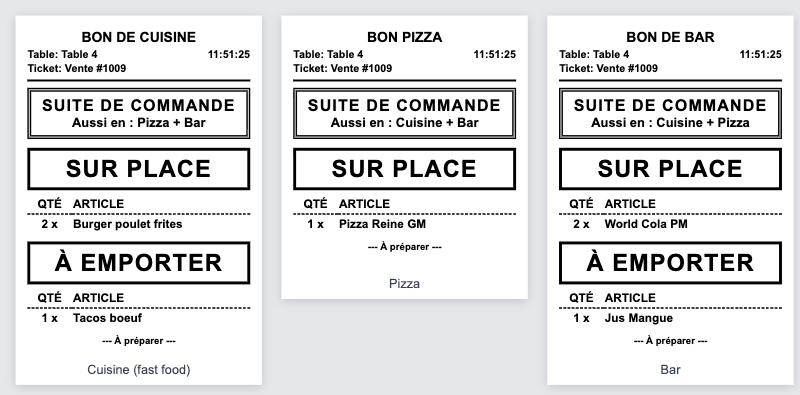
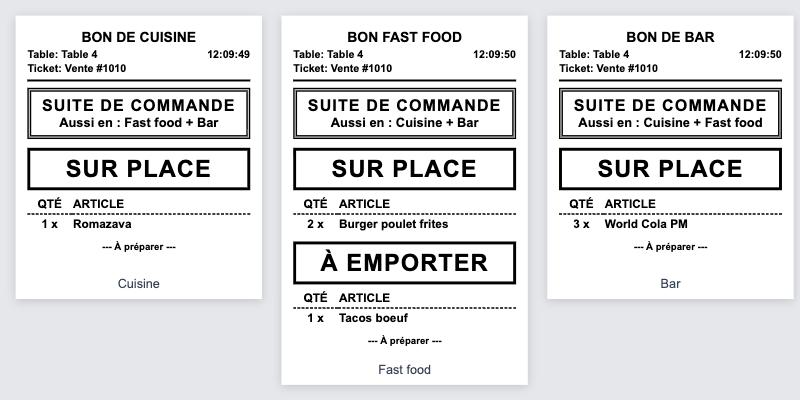
feat(pos): poste « Fast food » séparé de la cuisine
Les catégories Fast food (avec / sans porc) ont leur propre bon « BON
FAST FOOD » (imprimante nommée « fastfood »), cité par les autres bons
dans « suite de commande ». La migration les déplace de la cuisine vers
ce poste ; un autre réglage local est conservé.

Sans imprimante « fastfood » sur la machine, le bon part sur
l'imprimante cuisine, puis sur celle de la caisse : rien ne se perd. Un
bon pizza sans imprimante « pizza » se replie aussi sur la caisse (il
échouait avant). L'API des catégories accepte fastfood et pizza.

diff --git a/pos/frontend/src/services/printing/__tests__/receiptTemplate.spec.js b/pos/frontend/src/services/printing/__tests__/receiptTemplate.spec.js
@@ -156,8 +156,13 @@ describe('suite de commande (ticket réparti sur plusieurs postes)', () => {
     expect(otherStationsText(undefined, 'bar')).toBe('')
   })
 
+  it('le fast food est un poste à part entière', () => {
+    expect(otherStationsText(['fastfood', 'kitchen', 'bar'], 'bar')).toBe('Cuisine + Fast food')
+    expect(otherStationsText(['fastfood', 'kitchen', 'bar'], 'fastfood')).toBe('Cuisine + Bar')
+  })
+
   it('les articles sans imprimante sont cités comme « Caisse », un poste inconnu par son nom', () => {
-    expect(otherStationsText(['kitchen', 'receipt', 'fastfood'], 'kitchen')).toBe('Caisse + fastfood')
+    expect(otherStationsText(['kitchen', 'receipt', 'friteuse'], 'kitchen')).toBe('Caisse + friteuse')
     expect(stationLabel('cook')).toBe('Cuisine')
   })
 })

diff --git a/pos/frontend/src/services/printing/receiptTemplate.js b/pos/frontend/src/services/printing/receiptTemplate.js
@@ -90,8 +90,8 @@ export function formatServiceLabel({ serviceType, tableNumber } = {}) {
 }
 
 // ── Postes de préparation (categories.printer) ──
-export const STATION_LABELS = Object.freeze({ kitchen: 'Cuisine', cook: 'Cuisine', pizza: 'Pizza', bar: 'Bar', receipt: 'Caisse' })
-const STATION_ORDER = ['kitchen', 'cook', 'pizza', 'bar', 'receipt']
+export const STATION_LABELS = Object.freeze({ kitchen: 'Cuisine', cook: 'Cuisine', fastfood: 'Fast food', pizza: 'Pizza', bar: 'Bar', receipt: 'Caisse' })
+const STATION_ORDER = ['kitchen', 'cook', 'fastfood', 'pizza', 'bar', 'receipt']
 
 /** Nom lisible d'un poste : 'kitchen' -> « Cuisine » (inconnu : nom brut) */
 export const stationLabel = (printer) => STATION_LABELS[printer] || String(printer || '')

diff --git a/pos/frontend/src/composables/usePrinterTypes.js b/pos/frontend/src/composables/usePrinterTypes.js
@@ -3,7 +3,7 @@ import axios from 'axios'
 import { API_BASE_URL } from '@/utils/api'
 
 const getPrinterTypeLabel = (type) => {
-  const labels = { cash: 'Caisse', kitchen: 'Cuisine', bar: 'Bar', invoice: 'Facture' }
+  const labels = { cash: 'Caisse', kitchen: 'Cuisine', fastfood: 'Fast food', pizza: 'Pizza', bar: 'Bar', invoice: 'Facture' }
   return labels[type] || type
 }
 

diff --git a/pos/backend/tests/Feature/FastfoodPrinterTest.php b/pos/backend/tests/Feature/FastfoodPrinterTest.php
@@ -1,0 +1,66 @@
+<?php
+
+namespace Tests\Feature;
+
+use App\Models\Category;
+use App\Models\PointOfSale;
+use App\Models\User;
+use Illuminate\Foundation\Testing\RefreshDatabase;
+use PHPUnit\Framework\Attributes\Test;
+use Spatie\Permission\Models\Role;
+use Tests\TestCase;
+
+/**
+ * Poste « fastfood » séparé de la cuisine : les catégories Fast food y ont
+ * leurs propres bons de préparation.
+ */
+class FastfoodPrinterTest extends TestCase
+{
+    use RefreshDatabase;
+
+    private function migration()
+    {
+        return require database_path('migrations/2026_11_27_000002_add_fastfood_printer_to_categories.php');
+    }
+
+    #[Test]
+    public function la_base_accepte_le_poste_fastfood()
+    {
+        $category = Category::factory()->create(['printer' => 'fastfood']);
+
+        $this->assertSame('fastfood', $category->fresh()->printer);
+    }
+
+    #[Test]
+    public function la_migration_passe_les_categories_fast_food_de_la_cuisine_au_poste_fastfood()
+    {
+        $this->migration()->down();
+        $avecPorc = Category::factory()->create(['name' => 'Fast food avec porc', 'printer' => 'kitchen']);
+        $sansPorc = Category::factory()->create(['name' => 'Fast food sans porc', 'printer' => 'kitchen']);
+        $pates = Category::factory()->create(['name' => 'Pâtes sans porc', 'printer' => 'kitchen']);
+        $reglageLocal = Category::factory()->create(['name' => 'Fast food maison', 'printer' => 'bar']);
+
+        $this->migration()->up();
+
+        $this->assertSame('fastfood', $avecPorc->fresh()->printer);
+        $this->assertSame('fastfood', $sansPorc->fresh()->printer);
+        $this->assertSame('kitchen', $pates->fresh()->printer);
+        $this->assertSame('bar', $reglageLocal->fresh()->printer, 'un réglage local autre que cuisine est conservé');
+    }
+
+    #[Test]
+    public function l_api_accepte_fastfood_et_refuse_un_poste_inconnu()
+    {
+        Role::findOrCreate('admin', 'api');
+        $admin = User::factory()->create(['point_of_sale_id' => PointOfSale::factory()->create()->id]);
+        $admin->assignRole('admin');
+        $api = $this->withHeader('Authorization', 'Bearer ' . $admin->createToken('test')->plainTextToken);
+
+        $api->postJson('/api/categories', ['name' => 'Fast food test', 'printer' => 'fastfood'])
+            ->assertStatus(201)
+            ->assertJsonPath('data.printer', 'fastfood');
+
+        $api->postJson('/api/categories', ['name' => 'Autre', 'printer' => 'friteuse'])
+            ->assertStatus(422);
+    }
+}

diff --git a/pos/backend/app/Http/Controllers/CategoryController.php b/pos/backend/app/Http/Controllers/CategoryController.php
@@ -2,6 +2,8 @@
 
 namespace App\Http\Controllers;
 
+use Illuminate\Validation\Rule;
+
 use App\Models\Category;
 use App\Models\Product;
 use Illuminate\Http\Request;
@@ -370,7 +372,7 @@ class CategoryController extends Controller
         try {
             $validated = $request->validate([
                 'name' => 'required|string|max:255|unique:categories,name',
-                'printer' => 'nullable|in:kitchen,bar,receipt,cook',
+                'printer' => ['nullable', Rule::in(Category::PRINTERS)],
             ]);
 
             $category = Category::create($validated);
@@ -417,7 +419,7 @@ class CategoryController extends Controller
         try {
             $validated = $request->validate([
                 'name' => 'sometimes|string|max:255|unique:categories,name,' . $category->id,
-                'printer' => 'sometimes|nullable|in:kitchen,bar,receipt,cook',
+                'printer' => ['sometimes', 'nullable', Rule::in(Category::PRINTERS)],
             ]);
 
             $category->update($validated);
@@ -484,7 +486,7 @@ class CategoryController extends Controller
     {
         try {
             $validated = $request->validate([
-                'printer' => 'required|in:kitchen,bar,receipt,cook',
+                'printer' => ['required', Rule::in(Category::PRINTERS)],
             ]);
 
             $category->update(['printer' => $validated['printer']]);
@@ -511,10 +513,10 @@ class CategoryController extends Controller
      */
     public function getCategoriesByPrinter($printerType)
     {
-        if (!in_array($printerType, ['kitchen', 'bar', 'receipt', 'cook'])) {
+        if (!in_array($printerType, Category::PRINTERS, true)) {
             return response()->json([
                 'message' => 'Invalid printer type',
-                'allowed' => ['kitchen', 'bar', 'receipt', 'cook']
+                'allowed' => Category::PRINTERS
             ], 422);
         }
 

diff --git a/pos/backend/database/migrations/2026_11_27_000002_add_fastfood_printer_to_categories.php b/pos/backend/database/migrations/2026_11_27_000002_add_fastfood_printer_to_categories.php
@@ -1,0 +1,40 @@
+<?php
+
+use Illuminate\Database\Migrations\Migration;
+use Illuminate\Support\Facades\DB;
+
+return new class extends Migration
+{
+    // Nouveau poste de préparation « fastfood », séparé de la cuisine.
+    // Les catégories « Fast food … » qui partaient en cuisine y passent.
+    // Sans imprimante nommée « fastfood » sur la machine, Electron imprime ces
+    // bons sur l'imprimante cuisine (puis caisse) : rien ne se perd.
+    public function up(): void
+    {
+        $this->setAllowedPrinters(['kitchen', 'fastfood', 'pizza', 'bar', 'receipt']);
+
+        DB::table('categories')
+            ->where('printer', 'kitchen')
+            ->whereRaw('LOWER(name) LIKE ?', ['fast food%'])
+            ->update(['printer' => 'fastfood']);
+    }
+
+    public function down(): void
+    {
+        DB::table('categories')->where('printer', 'fastfood')->update(['printer' => 'kitchen']);
+
+        $this->setAllowedPrinters(['kitchen', 'bar', 'receipt', 'pizza']);
+    }
+
+    // categories.printer est un enum Laravel : sous PostgreSQL, une contrainte CHECK
+    private function setAllowedPrinters(array $printers): void
+    {
+        if (DB::getDriverName() !== 'pgsql') {
+            return;
+        }
+
+        $list = implode(', ', array_map(fn ($p) => "'{$p}'::character varying", $printers));
+        DB::statement('ALTER TABLE categories DROP CONSTRAINT IF EXISTS categories_printer_check');
+        DB::statement("ALTER TABLE categories ADD CONSTRAINT categories_printer_check CHECK (printer::text = ANY (ARRAY[{$list}]::text[]))");
+    }
+};

diff --git a/pos/backend/app/Services/PrintGroupingService.php b/pos/backend/app/Services/PrintGroupingService.php
@@ -15,6 +15,7 @@ class PrintGroupingService
     {
         $groups = [
             'kitchen' => [],
+            'fastfood' => [],
             'bar' => [],
             'pizza' => [],
             'receipt' => []
@@ -29,6 +30,9 @@ class PrintGroupingService
                     break;
                 case 'pizza':
                     $groups['pizza'][] = $line;
+                    break;
+                case 'fastfood':
+                    $groups['fastfood'][] = $line;
                     break;
                 case 'receipt':
                     $groups['receipt'][] = $line;
@@ -79,6 +83,7 @@ class PrintGroupingService
             'kitchen' => 'COMMANDE CUISINE',
             'bar' => 'COMMANDE BAR',
             'pizza' => 'COMMANDE PIZZA',
+            'fastfood' => 'COMMANDE FAST FOOD',
             'receipt' => 'FACTURE',
             default => 'COMMANDE',
         };

diff --git a/pos/backend/app/Models/Category.php b/pos/backend/app/Models/Category.php
@@ -9,6 +9,9 @@ class Category extends Model
 {
     use HasFactory, \App\Models\Traits\ScopeByPos;
     
+    /** Postes de préparation (categories.printer) — nom de l'imprimante côté Electron */
+    public const PRINTERS = ['kitchen', 'fastfood', 'pizza', 'bar', 'receipt'];
+
     protected $fillable = [
         "name",
         'printer' ,

diff --git a/pos/backend/database/seeders/CategoryPrinterSeeder.php b/pos/backend/database/seeders/CategoryPrinterSeeder.php
@@ -25,6 +25,8 @@ class CategoryPrinterSeeder extends Seeder
             'PATISSERIE' => 'kitchen',
             'DESSERT' => 'kitchen',
             'SNACK' => 'kitchen',
+            'Fast food avec porc' => 'fastfood',
+            'Fast food sans porc' => 'fastfood',
         ];
 
         foreach ($mapping as $categoryName => $printerType) {
